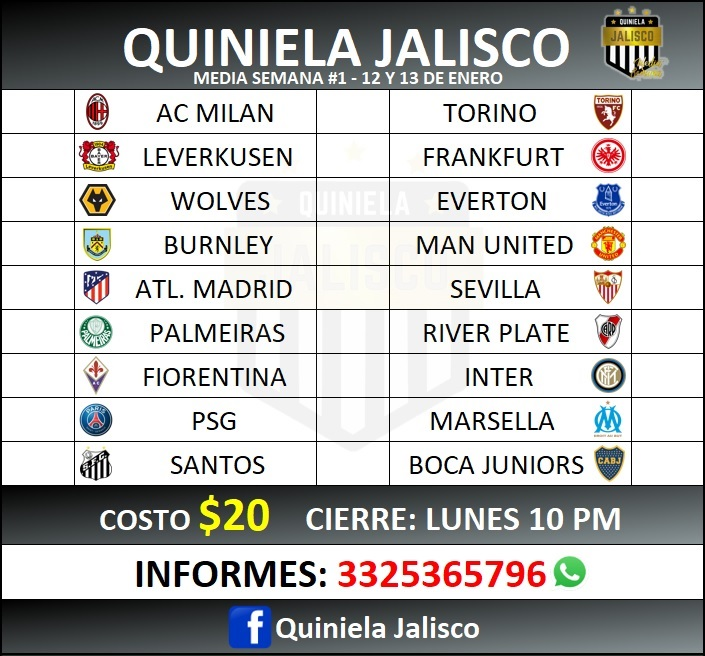
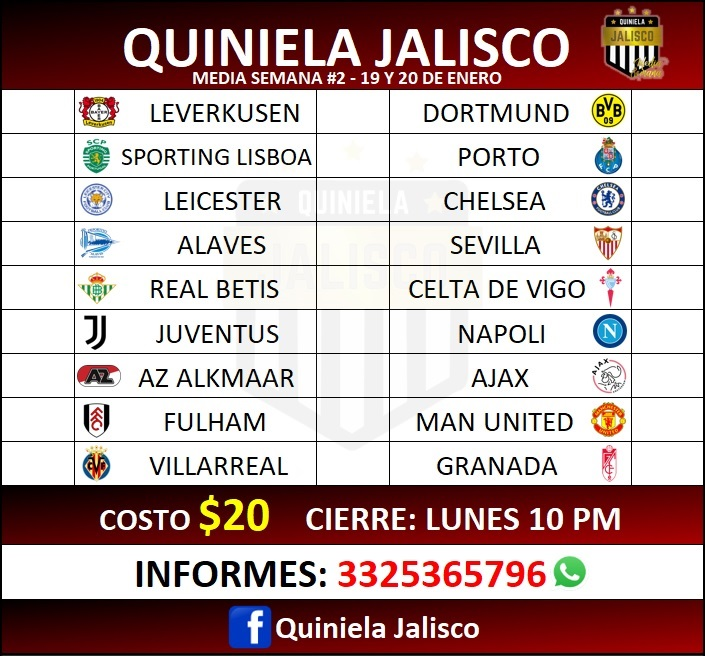
Media Semana #2

diff --git a/MediaSemana/stylesm.css b/MediaSemana/stylesm.css
@@ -7,7 +7,7 @@
 
 .quiniela{
     margin: auto;
-    background-image: url("https://scontent.fgdl9-1.fna.fbcdn.net/v/t1.15752-9/137204834_402597704151103_4907058845317010907_n.png?_nc_cat=101&ccb=2&_nc_sid=ae9488&_nc_eui2=AeERA6ZsxgtMAgUTnmJ25Xd-Zgy_rGpXHNZmDL-salcc1pEKswgyYrFesM-b1GGN_QCV9f0LFsunbLf7KBp2tGr_&_nc_ohc=EbUOiQ8X6rAAX9Itel6&_nc_ht=scontent.fgdl9-1.fna&oh=608674d3b57db01845c0f9bc3dacbf79&oe=6020DF0D");
+    background-image: url("https://scontent.fgdl9-1.fna.fbcdn.net/v/t1.15752-9/139632005_281212756774242_3761484160178817042_n.png?_nc_cat=107&ccb=2&_nc_sid=ae9488&_nc_eui2=AeGJAHRbJH3Ol3OCTf_j8eVdmOcIMlk5-XqY5wgyWTn5ev0k6ttJTiMSZzL87ZlYUqxNXDxTdbzVe6cNgKUcIxCt&_nc_ohc=-X92D_u1m7UAX9blR0U&_nc_ht=scontent.fgdl9-1.fna&oh=048a2ab74320d1d5b4ac54f0abf50fb4&oe=602710A4");
     background-size: 100%;
     background-repeat: no-repeat;
     max-width: 400px;
@@ -84,8 +84,8 @@ h1{
     margin-top: 8%;
     border: solid 1px black;
     border-radius: 0 0 20px 20px;
-    background: -webkit-linear-gradient(0.04turn, black  ,rgb(136,146,137) 80%);
-    background: linear-gradient(0.04turn, black  ,rgb(136,146,137) 80%);
+    background: -webkit-linear-gradient(0.04turn, black  ,rgb(164,0,1) 80%);
+    background: linear-gradient(0.04turn, black  ,rgb(164,0,1) 80%);
     font-size: x-large;
 }
 
